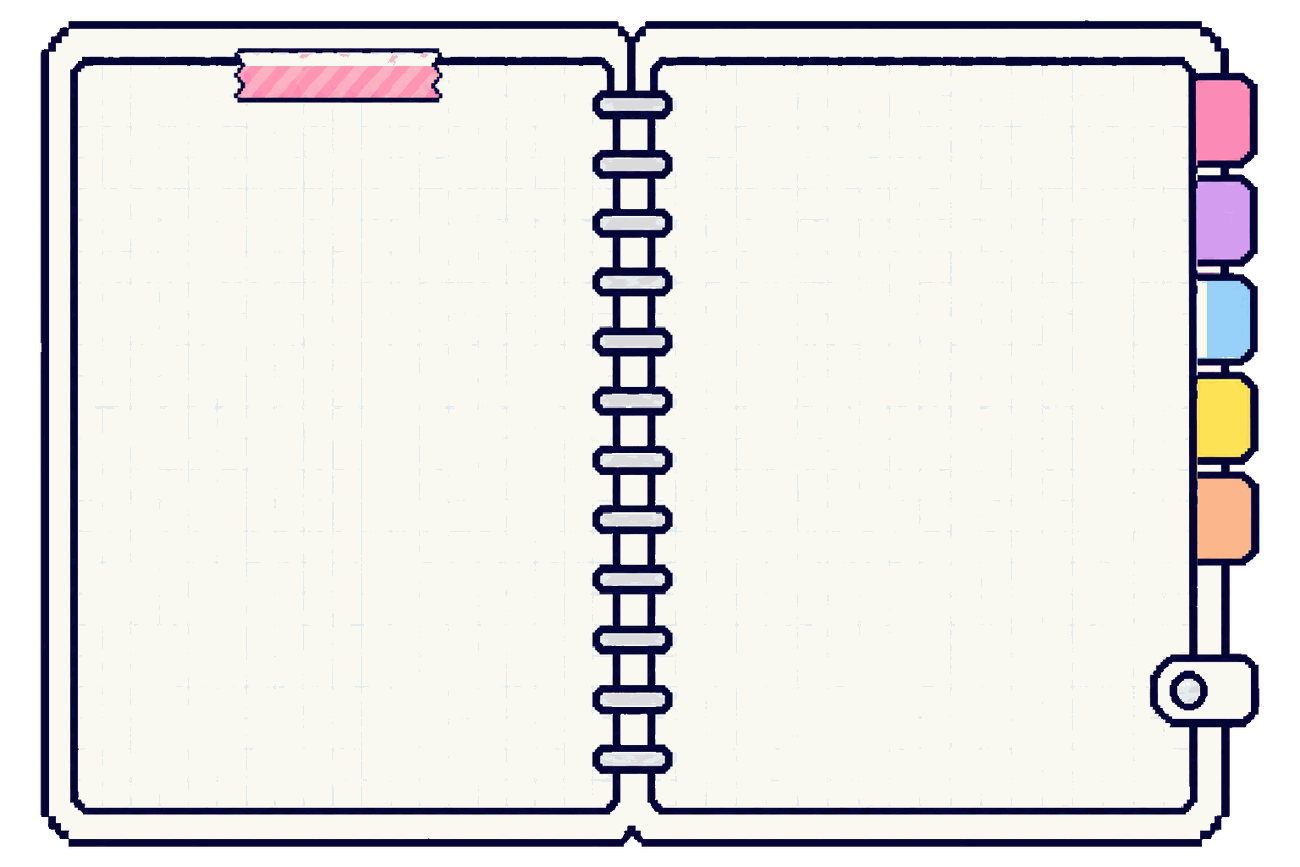
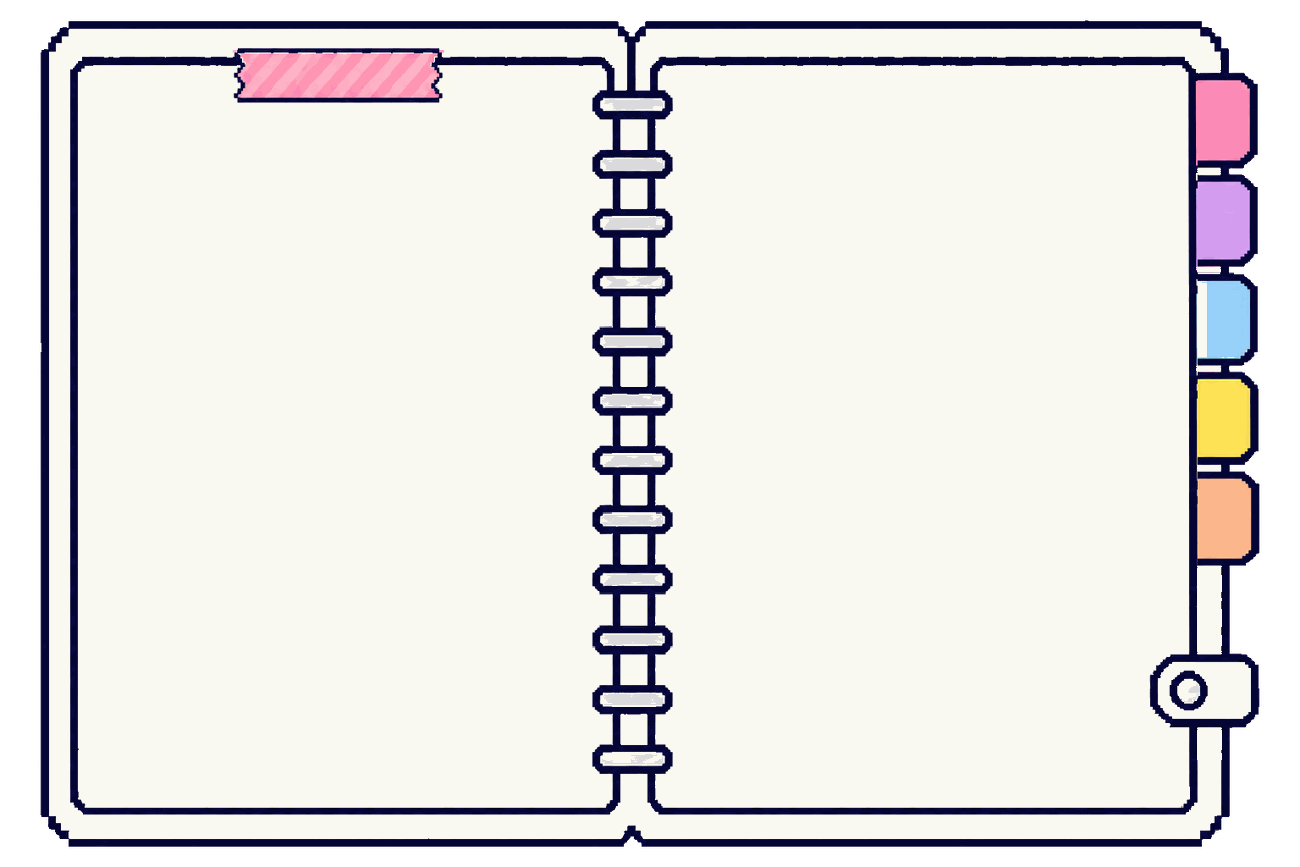
다이어리 인쇄 시안: 약속 목록만(체크 칸 없음), 확인란이 표 아래 따라옴, 7~10번 매일 체크 두 줄, 인쇄 그림 테이프·모눈·얼룩 정리, 인쇄 해상도 3배
Claude-Session: https://claude.ai/code/session_013gDdTXeZTNu5eP3vkMotFa

Changed region(s): [[0.1846, 0.0623, 0.3385, 0.0934]]

diff --git a/js/diary.js b/js/diary.js
@@ -92,22 +92,29 @@ function dyDiary(m, look, { print = false } = {}) {
   };
   const todayD = ti >= 0 ? (slots[ti] || DateK.today()) : null;
   const many = rules.length > 3 ? ' many' : '';   // 11/11 점검: 약속 4개(나만의 약속 포함)부터 줄을 낮춰 다이어리 밖으로 안 나가게
-  const signTop = 290 + 50 + Math.min(rules.length, 7) * (rules.length > 3 ? 64 : 86) + 92;
+  const dtwo = n >= 7 ? ' two' : '';        // 11/11 밤: 7~10번이면 매일 체크 칸을 두 줄로(날짜가 겹치지 않게, 별 스티커 붙일 자리)
+  const sign = print ? `<div class="psign">${c.tsign === 'n' ? `<span class="nyang">확인했어요<em>냥박사</em><b class="pspot">${dyPawSeal('pseal')}</b></span>` : `<span>확인했어요<i></i><b class="pspot">${dyPawSeal('pseal ghost')}</b></span>`}</div>` : '';
   const Rt = `<div class="r-head"><h4>매일 체크</h4></div>
-    ${print ? `<div class="psign" style="top:${signTop}px">${c.tsign === 'n' ? `<span class="nyang">확인했어요<em>냥박사</em><b class="pspot">${dyPawSeal('pseal')}</b></span>` : `<span>확인했어요<i></i><b class="pspot">${dyPawSeal('pseal ghost')}</b></span>`}</div>`
-      : EVX ? '' : `<div class="slegend" style="top:344px"><span><svg viewBox="-0.5 -1 16 16" width="30" height="30"><use href="#star" fill="#F5C842"/></svg> 별 받음</span><span><svg viewBox="-0.5 -1 16 16" width="30" height="30"><use href="#star" fill="#9EA3AB"/></svg> 했지만 별 없음</span></div>`}
-    <div class="dayrow" ${print ? 'style="top:104px"' : ''}>${slots.map(day).join('')}</div>
+    ${print ? ''
+      : EVX ? '' : `<div class="slegend" style="top:${dtwo ? 380 : 344}px"><span><svg viewBox="-0.5 -1 16 16" width="30" height="30"><use href="#star" fill="#F5C842"/></svg> 별 받음</span><span><svg viewBox="-0.5 -1 16 16" width="30" height="30"><use href="#star" fill="#9EA3AB"/></svg> 했지만 별 없음</span></div>`}
+    <div class="dayrow${dtwo}" style="--cols:${Math.ceil(n / 2)};${print ? 'top:104px' : ''}">${slots.map(day).join('')}</div>
     ${print || EVX ? '' : prog()}
-    <div class="tlist${many}" ${print ? 'style="top:290px"' : ''}><h5>${print ? `실천한 날에 체크해요<span class="pdates">${slots.map(d => `<b>${c.mode === 'free' || !d ? '__' : DateK.md(d).split('/')[1]}</b>`).join('')}</span>` : `${ti >= 0 ? '오늘 실천한 약속' : '실천한 약속'}<span class="hrule">${m.need}개 이상 지키면 별 하나</span>`}</h5>
+    ${print ? `<div class="pcol" style="top:${dtwo ? 330 : 290}px">` : ''}<div class="tlist${many}${print ? ' plist' : ''}" ${print ? '' : dtwo && !EVX ? 'style="top:426px"' : ''}><h5>${print ? `지킬 약속<span class="hrule">${m.need}개 이상 지키면 별 하나</span>` : `${ti >= 0 ? '오늘 실천한 약속' : '실천한 약속'}<span class="hrule">${m.need}개 이상 지키면 별 하나</span>`}</h5>
       ${rules.map(r => {
         const v = todayD ? logOf(todayD)[r.id] : '';
-        return `<div class="ti"><span>${rp(r)}</span><span class="tt">${dyEsc(r.text)}</span>${print ? `<span class="pboxes">${slots.map(() => '<i class="cb pb"></i>').join('')}</span>` : `<button type="button" class="cb ${v === 'O' ? 'on' : ''} ${ti < 0 ? 'off' : ''}" data-rule="${r.id}" aria-label="${dyEsc(r.text)} 지켰어요" aria-pressed="${v === 'O'}"></button>`}</div>`;
-      }).join('')}</div>`;
+        return `<div class="ti"><span>${rp(r)}</span><span class="tt">${dyEsc(r.text)}</span>${print ? '' : `<button type="button" class="cb ${v === 'O' ? 'on' : ''} ${ti < 0 ? 'off' : ''}" data-rule="${r.id}" aria-label="${dyEsc(r.text)} 지켰어요" aria-pressed="${v === 'O'}"></button>`}</div>`;
+      }).join('')}</div>${print ? sign + '</div>' : ''}`;
   const k = 1196 / 1440, pw = 630 * k, ph2 = 873 * k, sc = ph2 / 860, off = (pw - 560 * sc) / 2;
   const pg = (left, html, dy = 0) => `<div class="dpage art" style="left:${left}px;top:${(78 - 24) * k}px;width:${pw}px;height:${ph2}px"><div class="pg" style="left:${off}px;top:${dy}px;transform:scale(${sc})">${html}</div></div>`;
   return `<div class="diary art" style="left:${print ? 0 : 402}px;top:${print ? 0 : 46}px;width:1196px;height:${975 * k}px">
-    <img class="dart" src="${DY_IMG('diary_' + look.art + (print ? '_ink' : ''))}" alt="" style="left:${-48 * k}px;top:${-24 * k}px;width:${1536 * k}px">
-    ${pg((93 - 48) * k, L, 34)}${pg((775 - 48) * k, Rt)}</div>`;
+    <img class="dart" src="${DY_IMG('diary_' + look.art + (print ? '_ink' : ''))}" alt="" style="left:${-48 * k}px;top:${-24 * k}px;width:${1536 * k}px${print ? ';image-rendering:pixelated' : ''}">
+    ${print ? dyGrid() : ''}${pg((93 - 48) * k, L, 34)}${pg((775 - 48) * k, Rt)}</div>`;
+}
+/* 11/11 밤: 인쇄용 그림의 모눈이 끊겨 보여 그림에서 지우고 선으로 다시 그려요 (원본 1300px 그림 좌표 → 다이어리 좌표) */
+function dyGrid() {
+  const f = 1536 / 1300 * (1196 / 1440), ox = -48 * (1196 / 1440), oy = -24 * (1196 / 1440);
+  const box = (x1, x2) => `<i class="pgrid" style="left:${ox + x1 * f}px;top:${oy + 62 * f}px;width:${(x2 - x1) * f}px;height:${(809 - 62) * f}px"></i>`;
+  return box(72, 592) + box(677, 1192);
 }
 const dyFixNote = h => h;   // 선생님 쪽지는 왼쪽 쪽 그대로
 
@@ -389,7 +396,7 @@ Router.screens.S46 = (app, p = {}) => {
     if (!pa) { pa = document.createElement('div'); pa.id = 'printArea'; pa.className = 'print-only'; document.body.appendChild(pa); }
     pa.innerHTML = '';
     toast('인쇄 준비 중…', 1500);
-    dyRender(m, look, 2, { print: true }).then(cv => {
+    dyRender(m, look, 3, { print: true }).then(cv => {
       pa.innerHTML = `<img class="dyp" src="${cv.toDataURL('image/png')}" alt="챌린지 다이어리 인쇄 양식">`;
       const im = pa.querySelector('img');
       const go = () => setTimeout(() => window.print(), 150);

diff --git a/css/diary.css b/css/diary.css
@@ -518,3 +518,27 @@ button.cb:focus-visible{outline:3px solid var(--coral);outline-offset:3px}
 .me{top:130px}
 .award{top:582px}
 .aw-t{margin-top:72px}
+
+/* 11/11 밤: 8~10번 다이어리 — 매일 체크 칸 두 줄(한 줄에 5칸) */
+.dayrow.two{flex-wrap:wrap;gap:6px}
+.dayrow.two .day{flex:0 0 calc((100% - (var(--cols) - 1) * 6px) / var(--cols));padding:4px 2px 5px;border-width:3px}
+.dayrow.two .day .sc{width:42px;height:40px;margin-bottom:0}
+.dayrow.two .day .sc svg{width:38px;height:38px}
+.dayrow.two .dbadge{padding:1px 5px}
+.dayrow.two .dbadge b{font-size:17px}
+.dayrow.two .dbadge small{font-size:13px}
+/* 인쇄 양식: 표 바로 아래에 확인란이 따라와요(표 길이와 상관없이 겹치지 않게) */
+.pcol{position:absolute;left:40px;width:480px;display:flex;flex-direction:column}
+.pcol .tlist{position:relative;left:0;top:0;width:100%;box-sizing:border-box}
+.pcol .psign{position:relative;left:0;width:450px;margin-top:30px}
+/* 인쇄 양식: 약속 목록만(지킨 날에는 위 칸에 별 스티커) */
+.tlist.plist .ti{padding:16px 16px}
+.tlist.plist.many .ti{padding:10px 16px}
+.tlist.plist .ti .tt{font-size:19px;line-height:1.35}
+.tlist.plist .hrule{font-size:18px}
+/* 인쇄용 모눈 */
+.pgrid{position:absolute;border-radius:10px;background-image:linear-gradient(#DCE7EC 1.4px,transparent 1.4px),linear-gradient(90deg,#DCE7EC 1.4px,transparent 1.4px);background-size:25.5px 25.5px;background-position:-1px -1px}
+.a4p .dayrow.two{gap:8px}
+.a4p .dayrow.two .day{flex-basis:calc((100% - (var(--cols) - 1) * 8px) / var(--cols));padding:6px 2px 6px}
+.a4p .dayrow.two .day .sc{width:54px;height:52px}
+.a4p .dayrow.two .day .sc svg{width:50px;height:50px}
